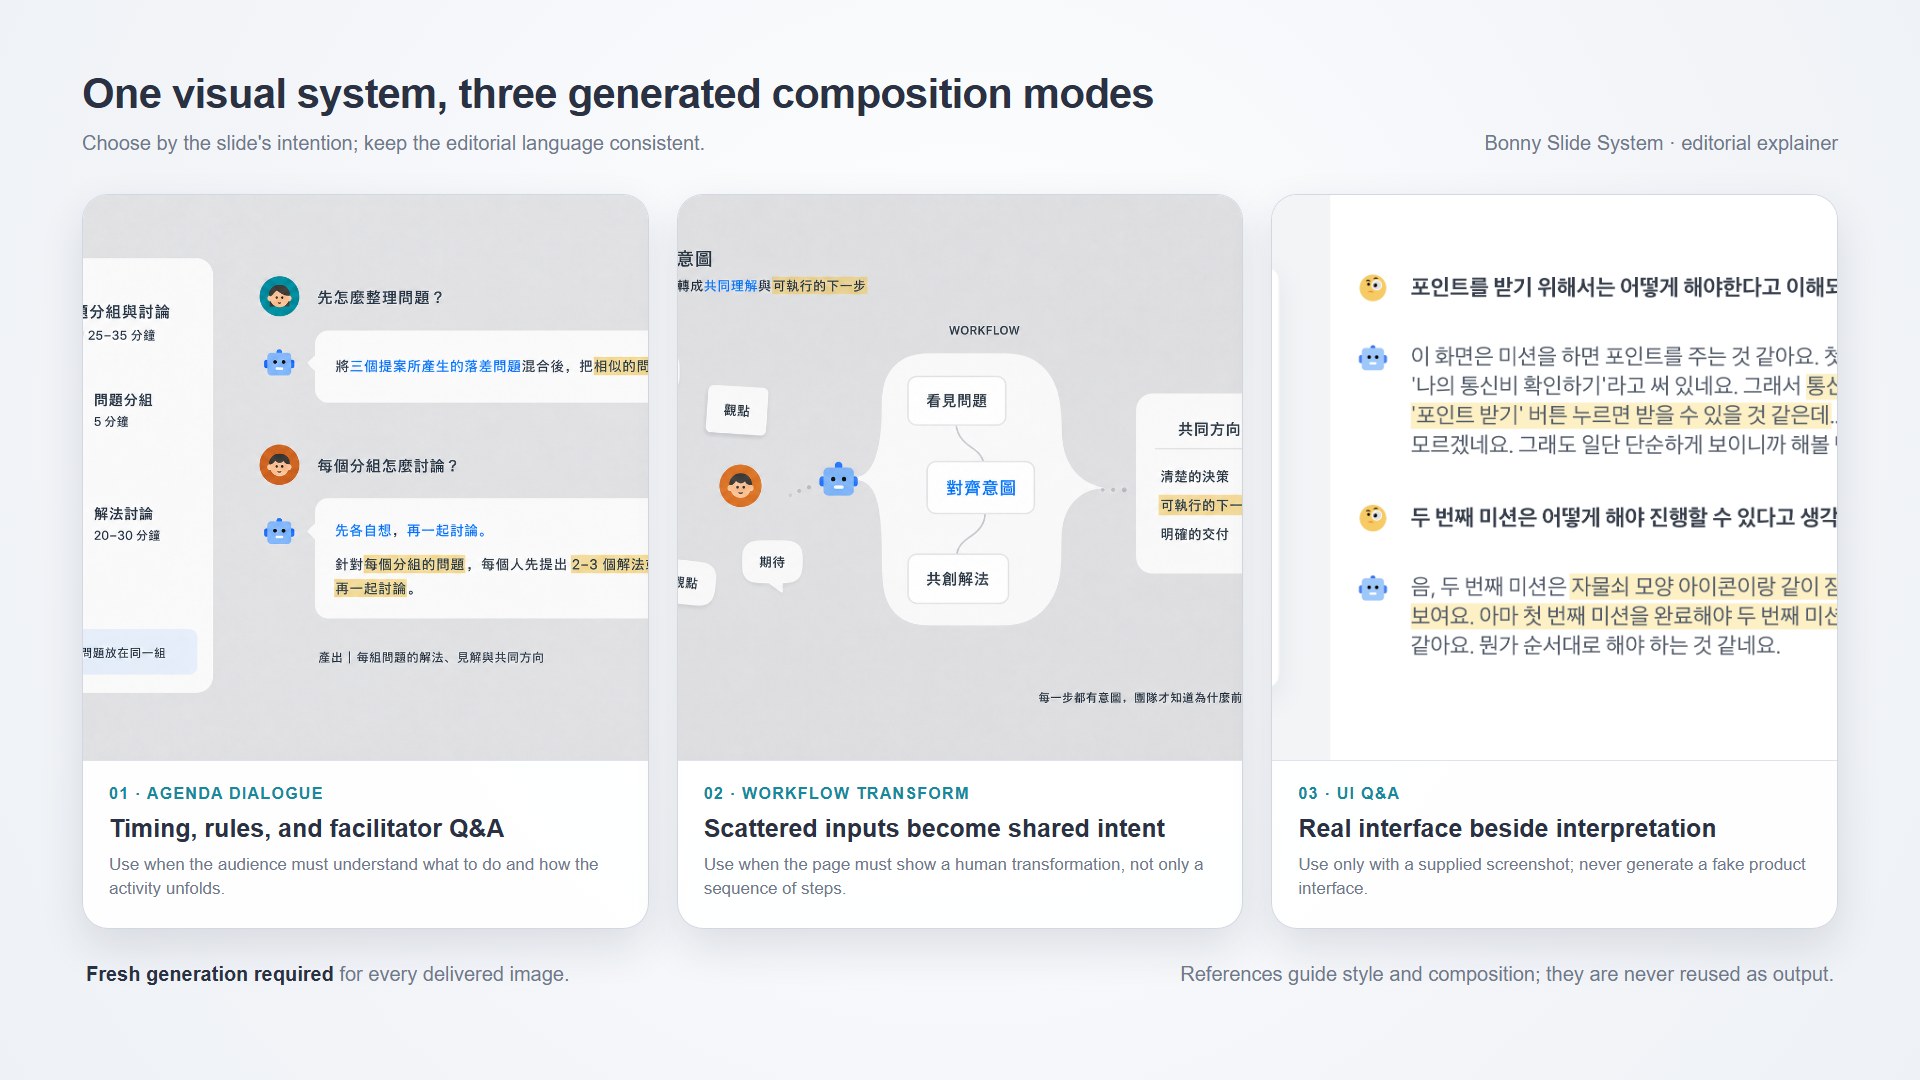
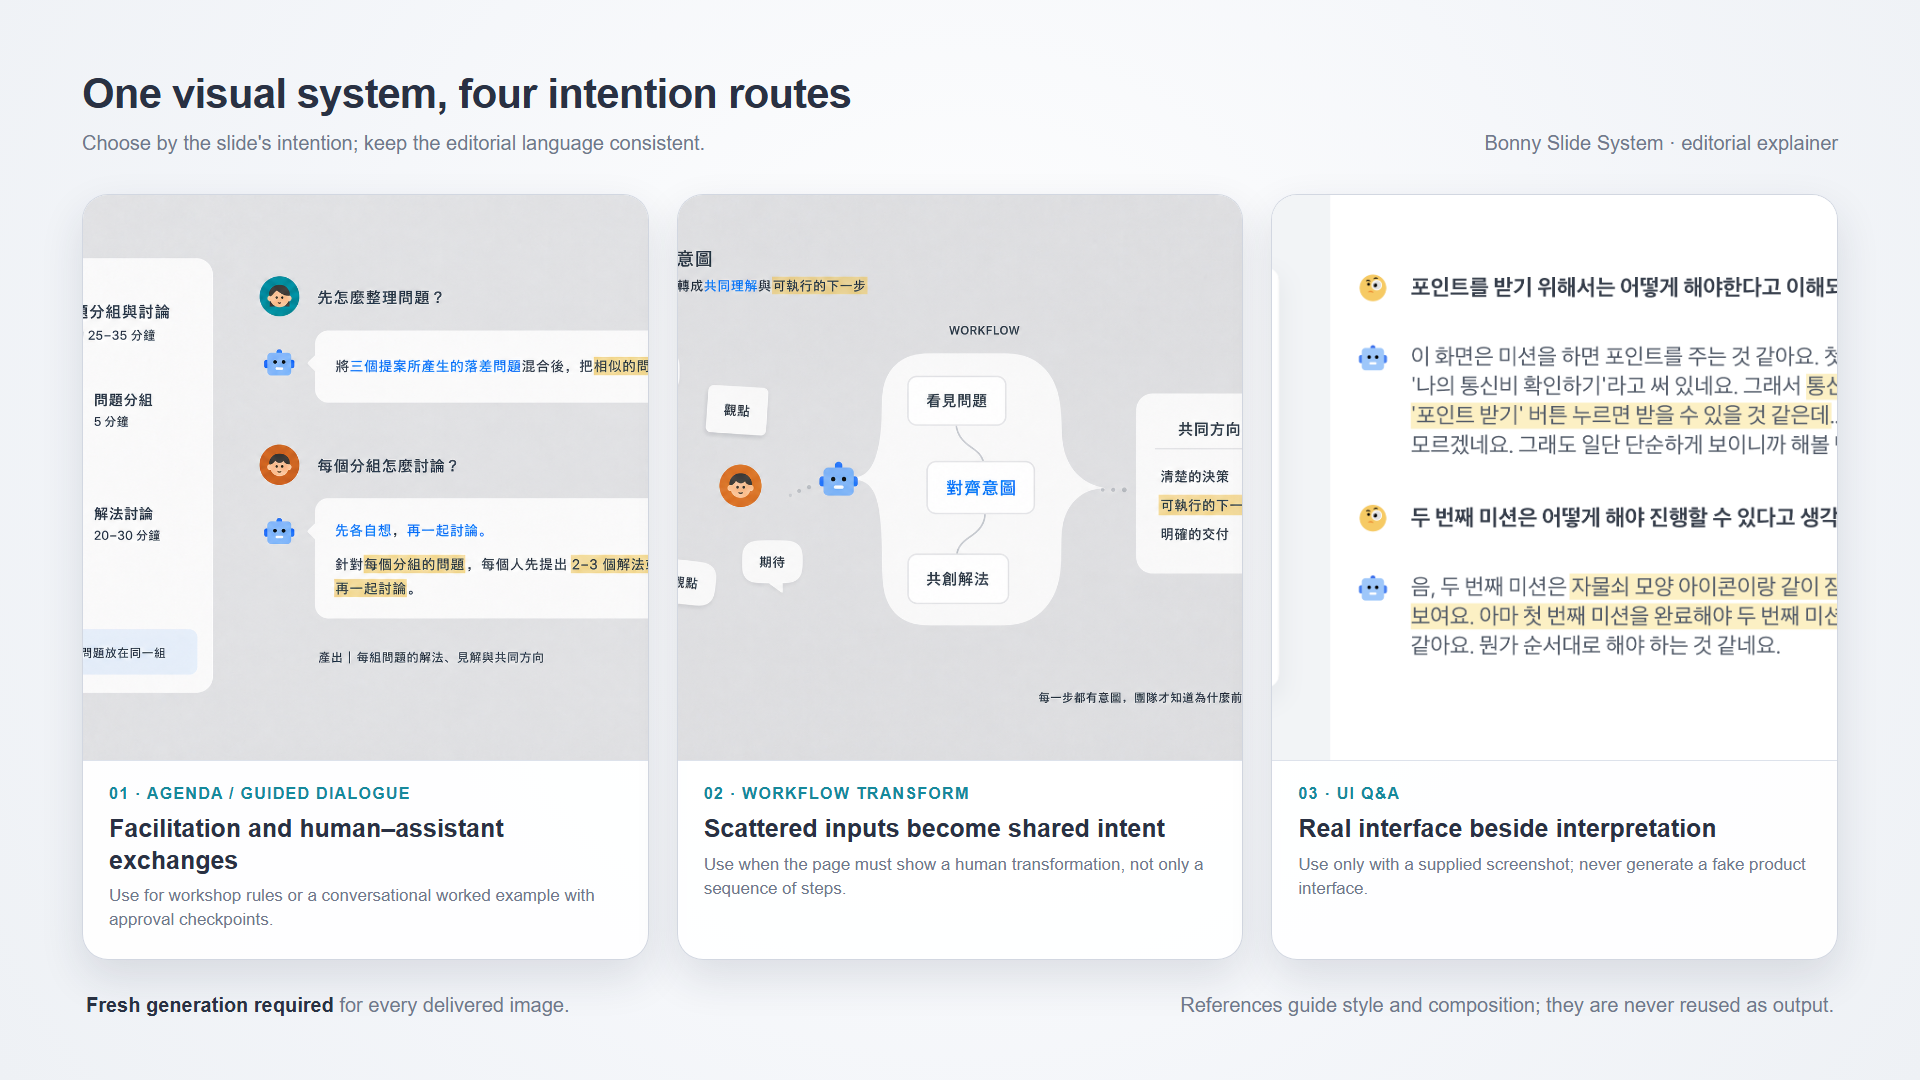
enforce generated editorial explainers (#4)

Changed region(s): [[0.0312, 0.7333, 0.9688, 0.9472], [0.25, 0.0611, 0.5938, 0.1222]]

diff --git a/examples/editorial-explainer-stage.html b/examples/editorial-explainer-stage.html
@@ -49,7 +49,7 @@
 <body>
   <header>
     <div>
-      <h1>One visual system, three generated composition modes</h1>
+      <h1>One visual system, four intention routes</h1>
       <p>Choose by the slide's intention; keep the editorial language consistent.</p>
     </div>
     <p>Bonny Slide System · editorial explainer</p>
@@ -58,9 +58,9 @@
     <article class="agenda">
       <figure><img src="../assets/illustration-style/editorial-workshop-grouping.png" alt="Workshop agenda and facilitator dialogue reference"></figure>
       <div class="meta">
-        <div class="tag">01 · Agenda dialogue</div>
-        <h2>Timing, rules, and facilitator Q&amp;A</h2>
-        <p>Use when the audience must understand what to do and how the activity unfolds.</p>
+        <div class="tag">01 · Agenda / guided dialogue</div>
+        <h2>Facilitation and human–assistant exchanges</h2>
+        <p>Use for workshop rules or a conversational worked example with approval checkpoints.</p>
       </div>
     </article>
     <article class="workflow">

diff --git a/scripts/validate_editorial_explainer_plan.py b/scripts/validate_editorial_explainer_plan.py
@@ -1,0 +1,97 @@
+#!/usr/bin/env python3
+"""Fail closed when a deck silently skips a selected editorial explainer."""
+
+from __future__ import annotations
+
+import argparse
+import json
+import sys
+from pathlib import Path
+
+
+VALID_VARIANTS = {"agenda-dialogue", "guided-dialogue", "workflow-transform", "ui-qa"}
+VALID_OVERRIDES = {"precise-table", "data", "code", "evidence", "real-ui-detail"}
+
+
+def fail(message: str) -> None:
+    print(f"FAIL: {message}", file=sys.stderr)
+    raise SystemExit(1)
+
+
+def main() -> None:
+    parser = argparse.ArgumentParser()
+    parser.add_argument("plan", type=Path)
+    parser.add_argument("deck", type=Path)
+    args = parser.parse_args()
+
+    if not args.plan.is_file():
+        fail(f"missing illustration plan: {args.plan}")
+    if not args.deck.is_file():
+        fail(f"missing deck: {args.deck}")
+
+    payload = json.loads(args.plan.read_text(encoding="utf-8"))
+    slides = payload.get("slides")
+    if not isinstance(slides, list) or not slides:
+        fail("plan.slides must be a non-empty list")
+
+    html = args.deck.read_text(encoding="utf-8")
+    seen: set[str] = set()
+    required = 0
+
+    for index, slide in enumerate(slides, start=1):
+        if not isinstance(slide, dict):
+            fail(f"slides[{index}] must be an object")
+        slide_id = str(slide.get("id", "")).strip()
+        gate = slide.get("gate")
+        trigger = str(slide.get("trigger", "")).strip()
+        hard_candidate = slide.get("hard_candidate")
+        reason = str(slide.get("reason", "")).strip()
+        if not slide_id or slide_id in seen:
+            fail(f"slides[{index}] has a missing or duplicate id")
+        seen.add(slide_id)
+        if f'id="{slide_id}"' not in html and f"id='{slide_id}'" not in html:
+            fail(f"{slide_id} is not present in the deck HTML")
+        if gate not in {"yes", "no"}:
+            fail(f"{slide_id} gate must be yes or no")
+        if not trigger:
+            fail(f"{slide_id} needs an illustration trigger")
+        if not isinstance(hard_candidate, bool):
+            fail(f"{slide_id} hard_candidate must be true or false")
+        if not reason:
+            fail(f"{slide_id} needs a gate reason")
+        if gate == "no":
+            override = slide.get("override")
+            if hard_candidate and override not in VALID_OVERRIDES:
+                fail(
+                    f"{slide_id} is a hard candidate with gate no; override must be one of: "
+                    + ", ".join(sorted(VALID_OVERRIDES))
+                )
+            continue
+
+        required += 1
+        variant = slide.get("variant")
+        if variant not in VALID_VARIANTS:
+            fail(f"{slide_id} has invalid variant: {variant}")
+        if slide.get("generator") != "built-in-imagegen":
+            fail(f"{slide_id} must record generator: built-in-imagegen")
+        asset_value = str(slide.get("asset", "")).strip()
+        if not asset_value:
+            fail(f"{slide_id} is missing an asset path")
+        asset = (args.plan.parent / asset_value).resolve()
+        if not asset.is_file():
+            fail(f"{slide_id} asset does not exist: {asset}")
+        refs = slide.get("references")
+        if not isinstance(refs, list) or not refs:
+            fail(f"{slide_id} must record matching style references")
+        if asset_value.replace("\\", "/") not in html.replace("\\", "/"):
+            fail(f"{slide_id} asset is not placed in the deck HTML")
+        marker = f'data-editorial-explainer="{variant}"'
+        marker_single = f"data-editorial-explainer='{variant}'"
+        if marker not in html and marker_single not in html:
+            fail(f"{slide_id} lacks the matching HTML variant marker")
+
+    print(f"PASS: {len(slides)} slide decisions; {required} generated editorial explainers verified")
+
+
+if __name__ == "__main__":
+    main()

diff --git a/scripts/build_editorial_explainer_prompt.py b/scripts/build_editorial_explainer_prompt.py
@@ -11,6 +11,11 @@ COMPOSITIONS = {
         "A slim rounded timing/step rail on the left. On the right, two vertically stacked participant "
         "questions with small circular human avatars and assistant answers in large rounded speech surfaces."
     ),
+    "guided-dialogue": (
+        "Use a compact progress/context rail on the left and one or more human-to-assistant exchanges on "
+        "the right. Reserve clean speech surfaces for native editable prompts, assistant actions, approval "
+        "moments, and the governed outcome. The page should feel like a worked example, not a chat transcript."
+    ),
     "workflow-transform": (
         "Scattered speech notes, constraints, expectations, and small human avatars on the left flow via "
         "dotted connectors and a restrained assistant into one organic white central workflow capsule with "

diff --git a/specs/foundations/generated-editorial-explainer.md b/specs/foundations/generated-editorial-explainer.md
@@ -15,9 +15,12 @@ Choose exactly one by intention:
 
 1. **`agenda-dialogue`** — a slim left timing/step rail plus two facilitator/assistant Q&A blocks. Use for
    workshop rules, rounds, breaks, prompts, grouping, voting, and discussion.
-2. **`workflow-transform`** — scattered inputs and avatars on the left, an assistant transition, one organic
+2. **`guided-dialogue`** — a compact progress rail or context card plus one or more human/assistant exchanges.
+   Use for chat-driven worked examples, owner approval loops, agent-assisted operations, and “say these lines”
+   instruction pages outside workshops.
+3. **`workflow-transform`** — scattered inputs and avatars on the left, an assistant transition, one organic
    central workflow capsule, then a shared-direction/output card on the right.
-3. **`ui-qa`** — a **real supplied screenshot** on the left and a participant/assistant interpretation on the
+4. **`ui-qa`** — a **real supplied screenshot** on the left and a participant/assistant interpretation on the
    right. Use for onboarding, locked states, hierarchy, likely actions, or research interpretation. Never
    generate or fabricate the product UI.
 
@@ -26,6 +29,7 @@ Reject all variants for precise data, dense comparisons, or evidence that must r
 ## Canonical references
 - `agenda-dialogue`: `editorial-workshop-grouping.png`, `editorial-workshop-crazy8.png`,
   `editorial-workshop-categorization.png`
+- `guided-dialogue`: `editorial-workshop-grouping.png`, `editorial-workshop-categorization.png`
 - `workflow-transform`: `workflow-intent-reference.png`
 - `ui-qa`: `editorial-ui-qa.png` plus the user's real screenshot as content reference
 
@@ -36,7 +40,12 @@ path. The references are **style/layout only**. Never return, crop, trace, or li
 contain Korean; learn structure only and always output Traditional Chinese + supporting English.
 
 ## Required generator workflow
-1. Record the intention-gate reason, variant, target dimensions, and native-copy zones.
+1. Create `illustration-plan.json` beside the deck and record **every slide**, including `gate: no` pages.
+   Every record must include `trigger`, `hard_candidate`, `gate`, and `reason`. A hard candidate may use
+   `gate: no` only with one explicit precision override: `precise-table`, `data`, `code`, `evidence`, or
+   `real-ui-detail`. For a generated page also record its variant, target dimensions, native-copy zones,
+   local asset path, matching references, and `generator: built-in-imagegen`. Use
+   `../editorial-explainer-plan.example.json` as the canonical contract.
 2. Run `scripts/build_editorial_explainer_prompt.py --variant …` with the topic, intention, ratio, and copy zones.
 3. Load the `imagegen` skill and invoke the built-in image-generation tool. Pass only the matching canonical
    variant references through `referenced_image_paths`; for `ui-qa`, also include the real screenshot.
@@ -46,10 +55,27 @@ contain Korean; learn structure only and always output Traditional Chinese + sup
 7. Run `scripts/validate_generated_illustration.py IMAGE --aspect W:H`; reject wrong-ratio or grayscale output.
 8. Place at `width:100%; height:100%`. No `object-fit:contain`, side gutters, grayscale, or desaturation.
 9. Render at 1920×1080 and compare against the selected reference family.
+10. Run `scripts/validate_editorial_explainer_plan.py illustration-plan.json DECK.html`. Delivery is blocked
+    if any slide is missing, a `gate: yes` asset is absent, provenance is not built-in imagegen, or the HTML
+    lacks the matching asset and `data-editorial-explainer` variant.
+
+## Mandatory gate triggers
+Default to `yes` for human/assistant dialogue, assistant-operated workflows, workshop facilitation,
+multi-person inputs converging into one decision, and multi-tool handoffs where the audience benefits from
+seeing who does what. Use `no` only when inspectable precision (table, data, code, real screenshot detail)
+is more important than the human explanation. If generation is unavailable after a `yes`, stop; do not
+replace it with HTML cards, an SVG diagram, or a canonical reference image.
+
+Use this tie-breaker when two variants seem plausible:
+- **system-level handoffs across people and tools** → `workflow-transform`
+- **turn-by-turn prompt, action, review, or approval** → `guided-dialogue`
+
+If one source page contains both a hard-candidate workflow and a precise table, split it into two slides:
+generated overview first, native evidence second. Do not use the table as a reason to suppress the overview.
 
 ## Prompt invariants
 - State the intention, audience takeaway, variant, and reference-as-style-only rule.
-- Preserve the shared visual system; vary composition only through the three sanctioned variants.
+- Preserve the shared visual system; vary composition only through the four sanctioned variants.
 - Preserve restrained teal/orange/lavender avatar rings, blue assistant/key phrases, and pale-yellow highlights.
 - Leave planned native-copy zones empty; prohibit random text, pseudo-text, Korean, logos, and watermarks.
 - Require exact ratio, edge-to-edge fill, 6% safe zone, and no gutters.

diff --git a/specs/content-map.md b/specs/content-map.md
@@ -23,6 +23,7 @@ page is trying to *do*. Shape narrows the choice; intention picks the winner.
 | Earn the conclusion (problem → insight) | Research story | background → problem → insight | `research-flow` | data cards → callout-band (HMW) → citation-card | none |
 | Make it both felt and proven | Qual + quant together | quotes AND numbers | `qual-quant-split` | quote-bubble (+avatar) \| stat bars | avatar icons |
 | Teach how to run a workshop activity in a human way | Timing rail + facilitator/assistant Q&A + rules/output | agenda, duration, rounds, breaks, prompts, voting, grouping, discussion rules | `editorial-explainer-stage` · `agenda-dialogue` | freshly generated full-block editorial explainer + native copy zones | **required:** image generator with workshop references; never reuse/trace them |
+| Humanize a worked example or assistant-led operating flow | Human prompt(s) → assistant action → governed outcome | “say these lines”, chat-driven workflow, owner asks an assistant, assistant opens PR/updates status, human approval checkpoints | `editorial-explainer-stage` · `guided-dialogue` | freshly generated dialogue stage + native editable prompts/outcomes | **required:** image generator with workshop/dialogue references; never rebuild as speech-card CSS |
 | Turn scattered inputs into one shared outcome (viewpoints→intent, or tools/roles→one pipeline) | Inputs → central transformation workflow → shared direction/output | problems, observations, limits, expectations, multiple voices, alignment, co-creation, explicit next step; **also** several tools/roles/steps converging into one process, a handoff chain, "X does A → Y does B → everyone gets C" governance flows | `editorial-explainer-stage` · `workflow-transform` | freshly generated full-block editorial explainer + native copy zones | **required:** image generator with workflow reference; never reuse/trace it. Data-precise pipelines (exact states, inspectable nodes) stay native `flow` |
 | Explain a real UI through a participant/assistant conversation | Real supplied screenshot + interpretive Q&A | user tries to understand screen, steps, locked states, hierarchy, or likely action | `editorial-explainer-stage` · `ui-qa` | real screenshot on left + generated conversational explainer on right | **required:** real screenshot + image generator with UI-Q&A reference; never fabricate UI |
 | Set expectations over time | Timeline / roadmap | phases over time | `timeline` | numbered-row / phase markers | phase markers |
@@ -50,7 +51,9 @@ Prefer the most specific shape. If two fit, pick the one whose **intention match
 between equals, the one with a concrete visual (chart/table/illustration) usually wins over plain cards,
 because it carries more meaning per slide.
 
-`editorial-explainer-stage` wins only when the stage-1 gate is `yes`. It requires a fresh image-generator
+`editorial-explainer-stage` wins when the stage-1 gate is `yes`. The hard-candidate triggers above must not be
+silently downgraded to `flow`, `numbered-rows`, or native speech cards merely because those are easier to build.
+It requires a fresh image-generator
 call and is not a synonym for drawing with HTML, CSS, SVG, or native cards. `ui-qa` additionally requires a
 real screenshot. Use native layouts when exact nodes/data must remain inspectable; use the generated route
 when the human explanation is the point.

diff --git a/specs/slide-plan.md b/specs/slide-plan.md
@@ -16,9 +16,9 @@ text it hasn't understood.
 - **Input:** the raw content/source (a doc, notes, findings, a transcript).
 - **Output:** an ordered **page plan** — one row per slide, no visuals chosen yet:
 
-| # | The ONE claim (繁中 + EN handle) | Intention (the job) | Narrative slot | Content shape (hint) | Editorial explainer? | Source ref |
+| # | The ONE claim (繁中 + EN handle) | Intention (the job) | Narrative slot | Content shape (hint) | Editorial explainer gate | Source ref |
 |---|---|---|---|---|---|---|
-| 1 | … | what this page must DO to the audience (persuade / teach / compare / prove / orient …) | cover / context / method / range / relationships / conclusion / section-cover | (a guess; `content-map` decides) | yes/no + one-line reason | … |
+| 1 | … | what this page must DO to the audience (persuade / teach / compare / prove / orient …) | cover / context / method / range / relationships / conclusion / section-cover | (a guess; `content-map` decides) | yes/no + trigger + reason | … |
 
 ## How to build the plan
 1. **Segment.** Split the file into slides. One slide = **one claim** (golden rule). If a chunk carries
@@ -37,11 +37,21 @@ text it hasn't understood.
    selection to `content-map.md` — the hint is a guess, not a decision.
 
 ## Editorial-explainer suitability gate
-Flag `yes` when a humanized explanation communicates the page better than native cards: workshop timing and
-rules, facilitator/assistant Q&A, scattered viewpoints becoming shared intent, or a **real supplied UI** that
-benefits from conversational interpretation. Flag `no` for precise data, tables, dense comparisons, or
-evidence that must remain directly inspectable. A UI-Q&A candidate also records the required real screenshot.
-Record only `yes/no + why`; stage 2 chooses the variant through `content-map.md`.
+Flag `yes` when a humanized explanation communicates the page better than native cards. The following are
+**hard candidates** and default to `yes`: workshop timing/rules; facilitator or human/assistant Q&A;
+human-to-agent worked examples; multi-tool workflows where people hand work to an assistant; scattered
+viewpoints becoming shared intent; and a **real supplied UI** that benefits from conversational interpretation.
+Flag `no` only when precise data, tables, dense comparisons, code, or evidence must remain directly
+inspectable, and record that reason. A UI-Q&A candidate also records the required real screenshot.
+
+Write the completed decisions to `illustration-plan.json` beside the deck. Every record includes a concrete
+`trigger`, boolean `hard_candidate`, `gate`, and `reason`. A hard candidate may use `gate: no` only with an
+explicit precision override (`precise-table`, `data`, `code`, `evidence`, or `real-ui-detail`). Every planned
+slide must appear; no decision may be omitted. Stage 2 chooses the variant through `content-map.md`.
+
+For ambiguous cases: use `workflow-transform` for system-level people/tool handoffs and `guided-dialogue`
+for turn-by-turn prompt/action/approval. If a workflow and a precise table share one source page, split them
+into a generated overview slide followed by a native evidence slide.
 
 ## Ask for assets
 While planning, flag any page whose intention needs a **real asset** — a product screenshot, a logo, a

diff --git a/specs/audit.md b/specs/audit.md
@@ -47,6 +47,8 @@ issues with a severity. Fix **blocker** + **major** before delivery.
 - [ ] Asked the user for assets (screenshots/logos/photos/data) that would materially improve a page. — minor
 
 ### Generated editorial explainer
+- [ ] `illustration-plan.json` exists and contains a decision for every slide. — blocker
+- [ ] `python scripts/validate_editorial_explainer_plan.py illustration-plan.json DECK.html` passes. — blocker
 - [ ] Stage-1 intention gate is `yes`; the explainer communicates the human process better than a native layout. — major
 - [ ] A built-in image-generator call created a **fresh** output using the matching canonical variant references. — blocker
 - [ ] The result is not a reference image, crop/trace, CSS/SVG recreation, or hand-built diagram. — blocker
@@ -55,6 +57,7 @@ issues with a severity. Fix **blocker** + **major** before delivery.
 - [ ] Exact copy is native/editable, or every baked word was verified; no Korean, logo, watermark, or random text. — blocker
 - [ ] `ui-qa` uses a real supplied screenshot; no generated/fabricated product UI. — blocker
 - [ ] Generated file is saved inside the deck and visibly placed. — blocker
+- [ ] A selected generated route was not silently downgraded because the generator was unavailable. — blocker
 
 ### Component / layout conformance
 - [ ] Each slide maps to a real layout in `layouts/`; components used per their spec. — major

diff --git a/specs/foundations/self-critique.md b/specs/foundations/self-critique.md
@@ -33,7 +33,7 @@ the output-side loop (the mirror of `learn-from-image.md`, which is the input si
    - 4-color discipline · plain-language title · imagery on-system
    - for `editorial-explainer-stage`: genuine image-generator call · fresh output rather than reference
      reuse · exact target ratio · full-block fill · colour preserved · native copy fidelity · local asset
-     persistence · no CSS/SVG substitute
+     persistence · no CSS/SVG substitute · complete `illustration-plan.json` · passing plan validator
    - **HTML/CSS code quality** — run **`modern-web-guidance`** on the built file (search/retrieve via
      `npx modern-web-guidance@latest`): `text-wrap: balance` on headings + `pretty` on body copy,
      overflow-safe layout (`min-width:0` on flex children), no fragile fixed heights, modern layout idioms.

diff --git a/specs/layouts/editorial-explainer-stage.md b/specs/layouts/editorial-explainer-stage.md
@@ -4,7 +4,7 @@ kind: layout
 tier: layout
 status: stable
 intent: humanize workshop instructions, workflow transformation, or real-UI interpretation
-triggers: [workshop timing and rules, facilitator dialogue, scattered inputs to shared intent, real UI with Q&A]
+triggers: [workshop timing and rules, facilitator dialogue, human-agent worked example, assistant-led workflow, scattered inputs to shared intent, real UI with Q&A]
 depends_on: [shot, stage-backdrop, tokens]
 tokens_used: [canvas, surface, ink, muted, muted-soft, accent, accent-soft, shadow-img]
 icon_use: generated-only
